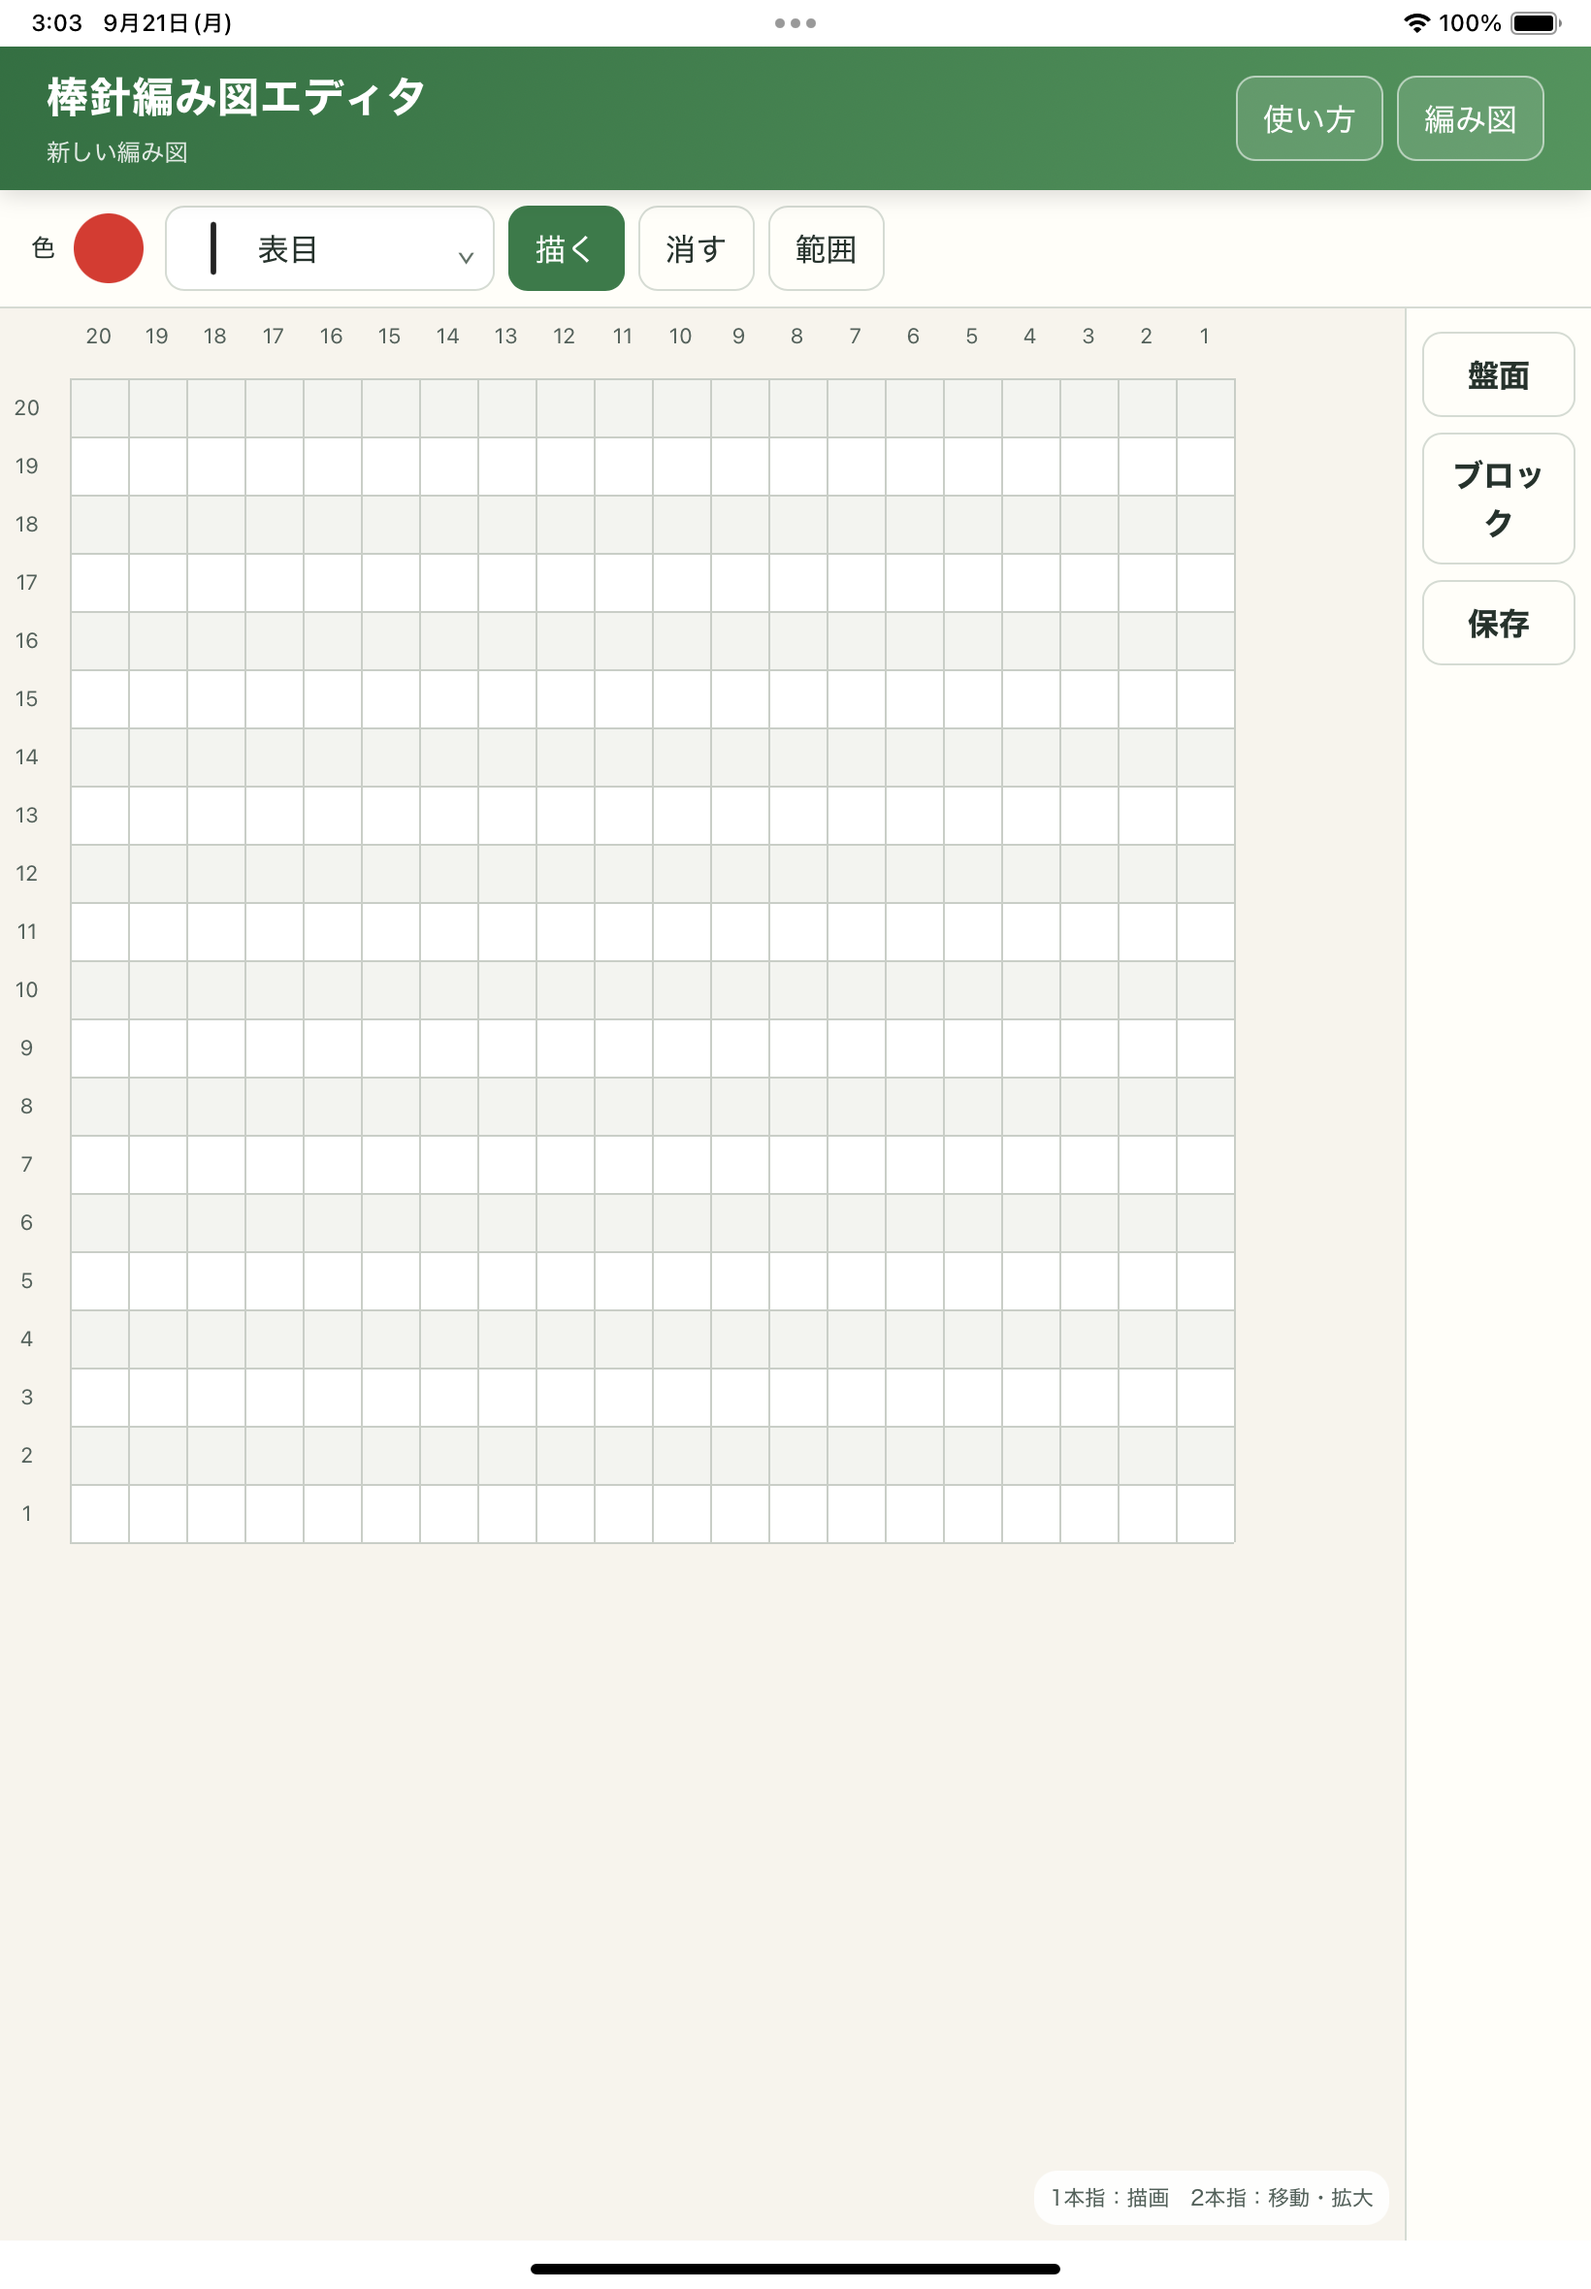
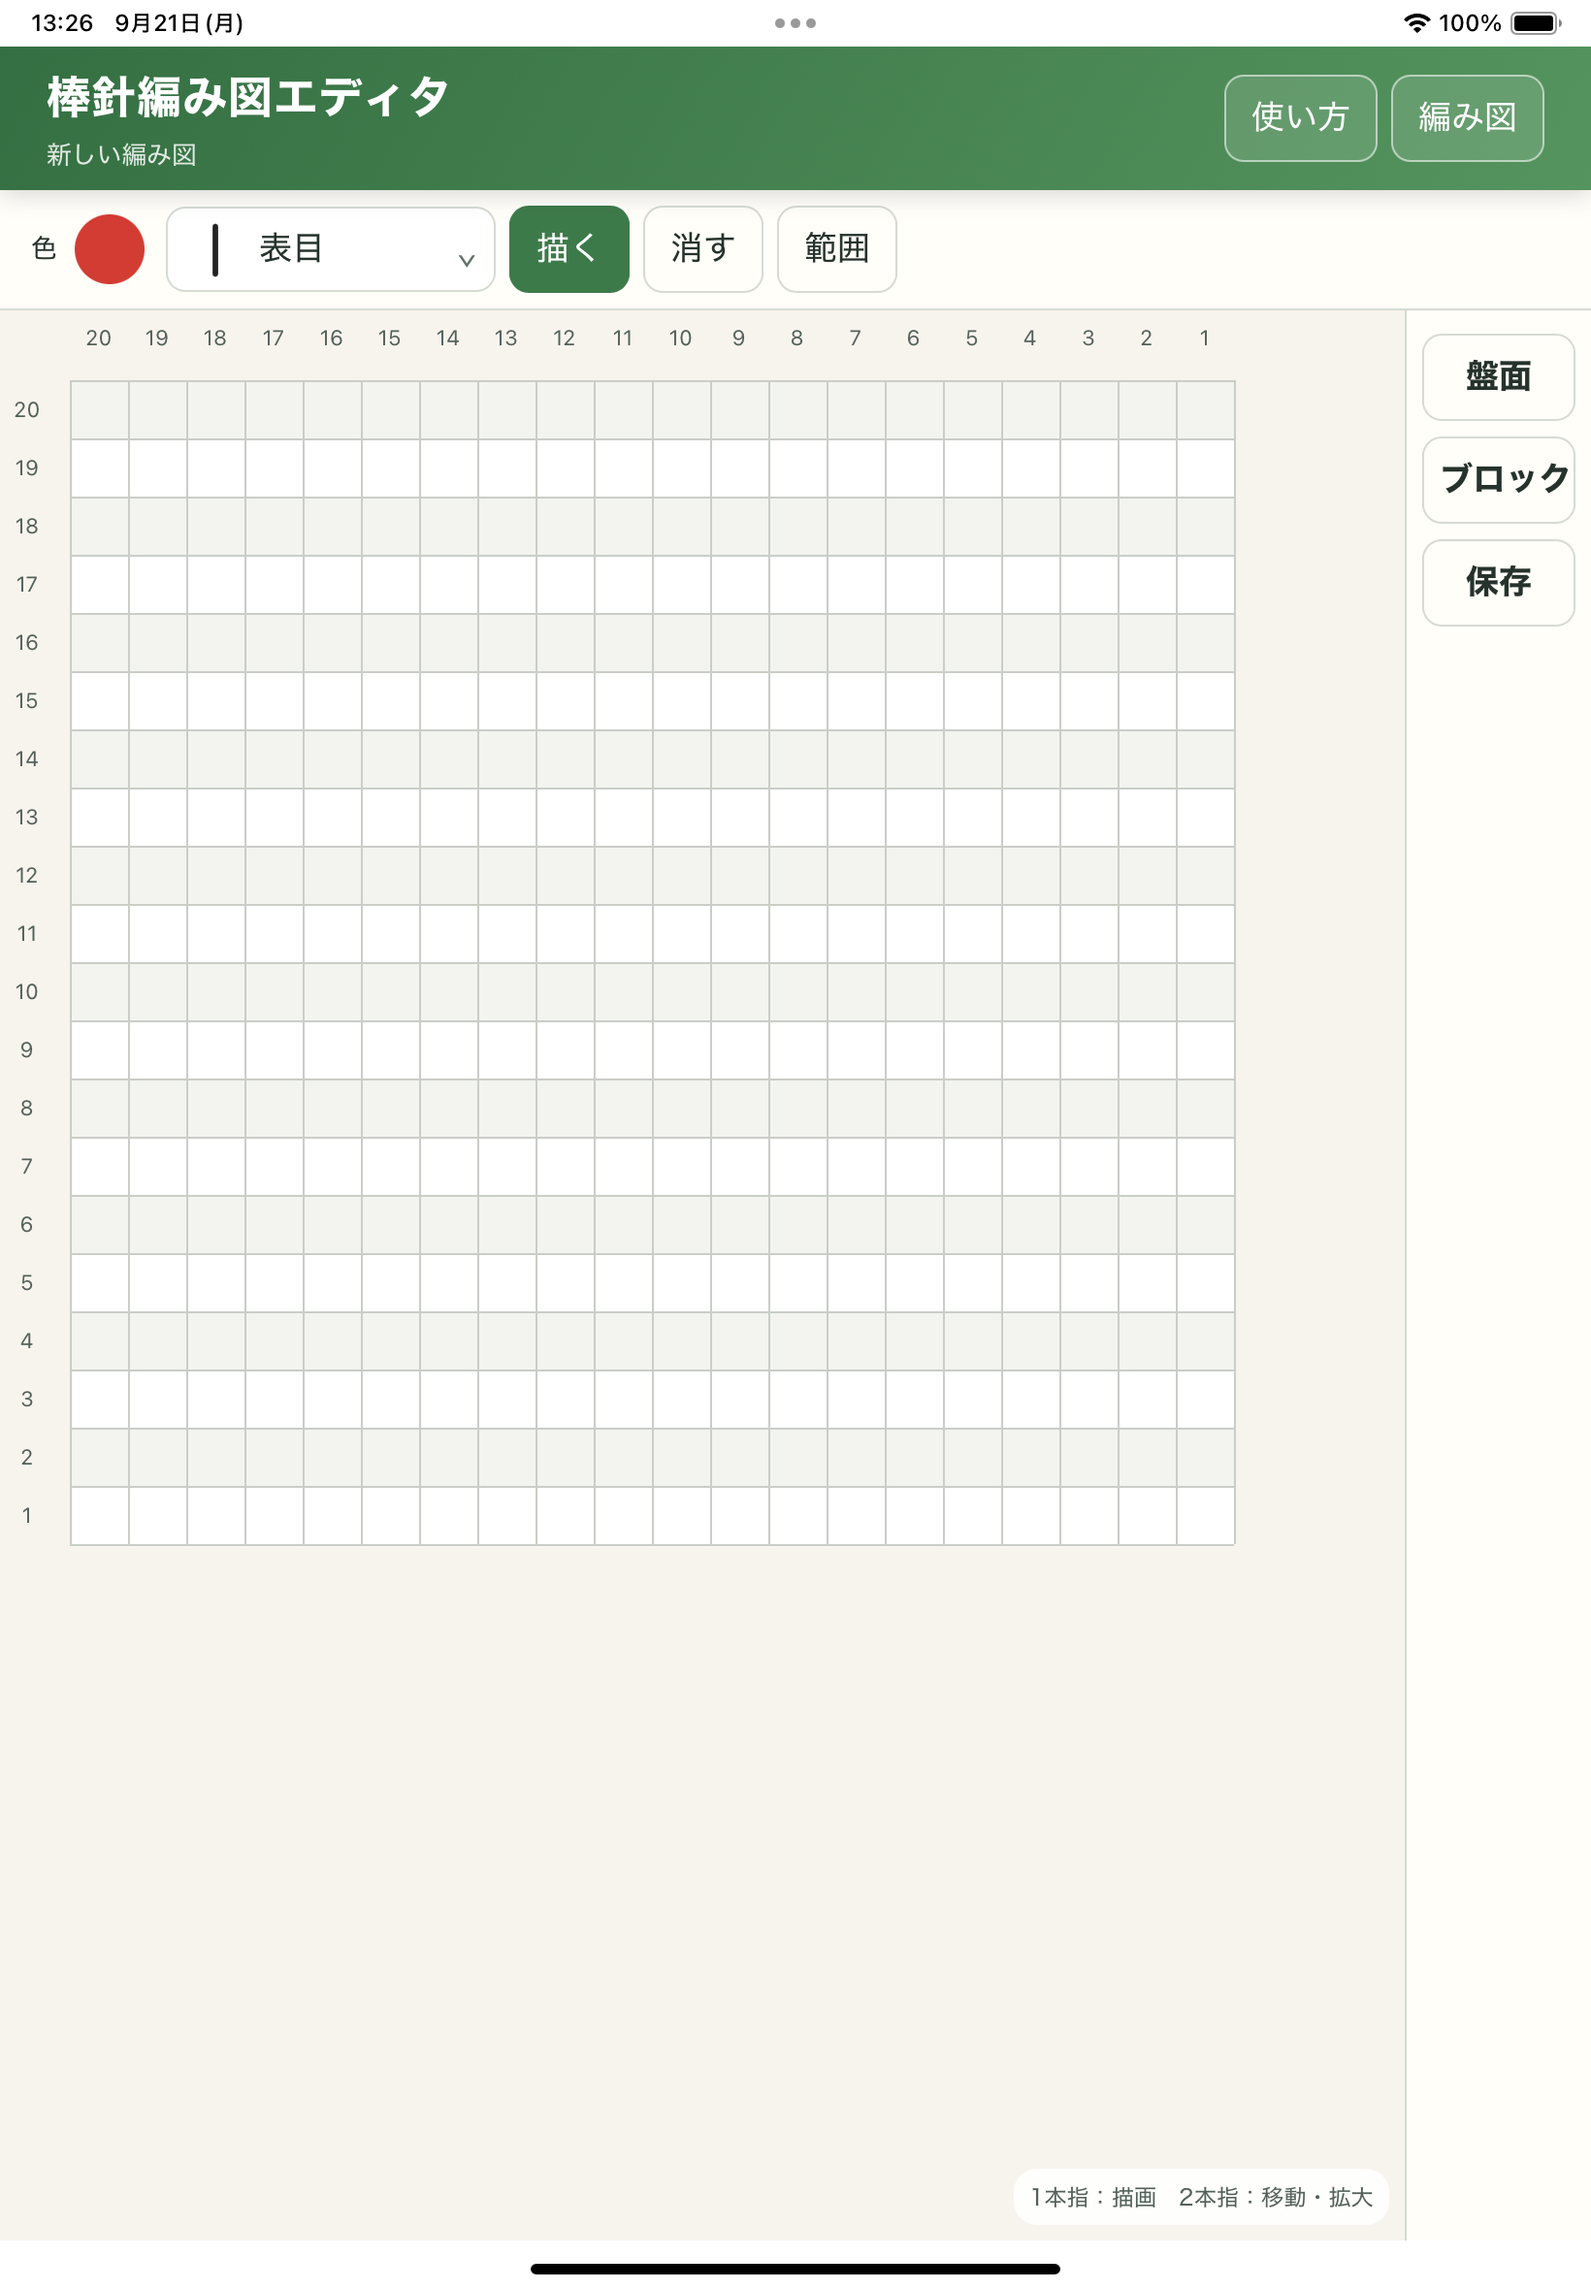
fix: refine simulator UI layout

diff --git a/Web/src/styles.css b/Web/src/styles.css
@@ -46,7 +46,9 @@ button:disabled { opacity: .45; cursor: not-allowed; }
 .stitch-picker-backdrop { position: fixed; inset: 0; z-index: 12; display: grid; place-items: end center; padding-top: 24px; background: rgba(26, 39, 31, .32); }
 .stitch-picker { width: min(100%, 760px); max-height: min(82vh, 760px); max-height: min(82dvh, 760px); overflow: auto; padding: 14px max(14px, env(safe-area-inset-right)) calc(20px + env(safe-area-inset-bottom)) max(14px, env(safe-area-inset-left)); border-radius: 18px 18px 0 0; background: var(--paper); box-shadow: 0 -12px 40px rgba(20, 38, 27, .24); }
 .stitch-picker-heading { position: sticky; top: -14px; z-index: 2; display: flex; align-items: center; justify-content: space-between; gap: 12px; margin: -14px 0 8px; padding: 14px 0 9px; background: var(--paper); }
+.stitch-picker-heading > div { min-width: 0; }
 .stitch-picker-heading h2 { margin: 0; font-size: 1.15rem; }
+.stitch-picker-heading > button { flex: 0 0 auto; white-space: nowrap; }
 .stitch-picker-heading p { margin: 2px 0 0; color: #67756e; font-size: .76rem; }
 .stitch-category h3 { margin: 15px 0 7px; color: #53605a; font-size: .86rem; }
 .stitch-grid { display: grid; grid-template-columns: repeat(3, minmax(0, 1fr)); gap: 7px; }
@@ -63,10 +65,11 @@ button:disabled { opacity: .45; cursor: not-allowed; }
 .gesture-hint { position: absolute; right: 8px; bottom: 8px; padding: 5px 8px; border-radius: 12px; color: #526059; background: rgba(255,255,255,.88); font-size: .68rem; pointer-events: none; }
 .selection-actions { position: fixed; z-index: 8; left: 50%; bottom: calc(72px + env(safe-area-inset-bottom)); transform: translateX(-50%); display: flex; gap: 7px; width: max-content; max-width: calc(100% - 20px); padding: 7px; border: 1px solid var(--border); border-radius: 14px; background: rgba(255,254,249,.97); box-shadow: var(--shadow); }
 .action-bar { min-width: 0; display: grid; grid-template-columns: repeat(3, minmax(0, 1fr)); gap: 8px; padding: 8px max(8px, env(safe-area-inset-right)) calc(8px + env(safe-area-inset-bottom)) max(8px, env(safe-area-inset-left)); background: var(--paper); border-top: 1px solid var(--border); z-index: 3; }
-.action-bar button { font-weight: 700; }
+.action-bar button { font-weight: 700; padding-inline: 8px; white-space: nowrap; }
 
 .drawer { position: fixed; inset: auto 0 0 0; z-index: 10; max-height: min(72vh, 650px); max-height: min(72dvh, 650px); overflow: auto; overscroll-behavior: contain; padding: 14px max(14px, env(safe-area-inset-right)) calc(20px + env(safe-area-inset-bottom)) max(14px, env(safe-area-inset-left)); background: var(--paper); border-radius: 18px 18px 0 0; box-shadow: 0 -12px 40px rgba(20, 38, 27, .22); }
 .drawer-heading { position: sticky; top: -14px; display: flex; align-items: center; justify-content: space-between; margin: -14px -2px 12px; padding: 14px 2px 8px; background: var(--paper); z-index: 2; }
+.drawer-heading > button, .app-dialog-actions button { white-space: nowrap; }
 .drawer-heading h2 { margin: 0; font-size: 1.15rem; }
 .drawer h3 { margin: 18px 0 8px; font-size: .9rem; color: #53605a; }
 .document-list, .block-list { display: grid; gap: 8px; margin-top: 12px; }
@@ -112,7 +115,9 @@ footer { display: none; }
   .app-header p { font-size: .68rem; }
   .header-actions { gap: 5px; }
   .header-guide, .header-document { min-width: 0; max-width: 96px; padding-inline: 9px; font-size: min(1rem, 20px); overflow: hidden; text-overflow: ellipsis; white-space: nowrap; }
-  .primary-tools { scrollbar-width: thin; }
+  .primary-tools { gap: 5px; padding: 6px; scrollbar-width: thin; }
+  .primary-tools > button { padding-inline: 8px; }
+  .stitch-tool { min-width: 136px; }
 }
 
 @media (min-width: 760px) {

diff --git a/DEVELOPMENT_LOG.md b/DEVELOPMENT_LOG.md
@@ -11,6 +11,15 @@
 - 未実施の検証と理由
 - 配布への影響
 
+## 2026-09-21: 実UIスクリーンショットQAで狭幅レイアウトを改善
+
+- 変更: iPhone Simulatorの実画面で、上部ツールバーの「範囲」が横スクロールなしで見えるよう、狭幅時の余白・記号選択幅・ボタン幅を調整した。iPadの右側「ブロック」と記号ピッカーの「閉じる」が2行へ折り返されないよう、操作ラベルを1行固定にした。修正後のiPhone／iPad実画面をApp Storeスクリーンショット下書きへ更新した。
+- 根拠: XcodeBuildMCPでiPhone 16／iPad (10th generation) Simulatorを起動し、初期画面、保存ドロワー、記号ピッカー、縦横回転後の画面をスクリーンショットで目視確認した。修正前はiPhoneの「範囲」、iPadの「ブロック」、記号ピッカーの「閉じる」に折返し／発見性の問題があった。修正後は3つの主要操作ラベルが1行で表示され、iPhoneの主要ツールが同一画面に収まることを確認した。
+- 主なファイル: `Web/src/styles.css`、`docs/screenshots/iphone-16-editor-simulator.png`、`docs/screenshots/ipad-10-editor-simulator.png`
+- テスト: `npm --prefix Web test -- --run`（39件成功）、`npm --prefix Web run typecheck`（成功）、iPhone／iPad Simulatorの`testCoreEditorControlsExposeAccessibleNamesAndState`、`testPrimaryControlsRemainUsableInPortraitAndLandscape`（成功）。画像はiPhone 1179×2556、iPad 1640×2360で再取得した。
+- 未実施: 実機・Split View・可変ウィンドウ・VoiceOver・Apple Pencil・最終App Store素材の確認。Simulatorの目視結果だけでは実機ゲートを完了扱いにしない。
+- 配布影響: データ形式、保存処理、Bundle ID、外部通信方針は変更しない。狭幅／iPad操作ラベルの視認性とスクリーンショット下書きのみを改善した。
+
 ## 2026-09-21: M4 Simulatorレイアウト項目の証跡を明確化
 
 - 変更: TODOのM4項目を、既存のiPhone 16／iPad (10th generation) Simulator試験で完了した範囲（縦横、狭幅ツールバー、Safe Area考慮、キーボード表示中のダイアログ）と、Split View・可変ウィンドウ・実機確認が必要な範囲に分離した。
